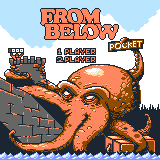
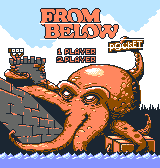
* Turned on screen-squish across the whole game again. * Updated titlescreen to account for this in lettering. * DMG and CGB tiles are now slightly different causing tile indexes to be different; fixed that. * Adjusted cursor to account for missing rows.

diff --git a/gb/src/StateFromBelow.c b/gb/src/StateFromBelow.c
@@ -503,7 +503,7 @@ void vbl_delay(UINT8 frames)
 uint8_t counter = 0; 
 void my_interrupt() NONBANKED {
 
-	if (state == STATE_GAME || state == STATE_OVER || state == STATE_PAUSE)
+	//if (state == STATE_GAME || state == STATE_OVER || state == STATE_PAUSE)
 	{
 		while (STAT_REG & STATF_BUSY);
 		SCY_REG++;
@@ -1001,14 +1001,26 @@ void UPDATE()
 				if (pad_all & PAD_ALL_BUTTONS)
 				{
 					sub_state = 1;
+
+					UINT8 p1 = '\x35';
+					UINT8 p2 = '\x44';
+					UINT8 player = 0x36;
+
+					if (_cpu != CGB_TYPE)	
+					{
+						p1 = '\x34';
+						p2 = '\x43';
+						player = 0x35;
+					}
+
 					// Show the player options
-					UPDATE_TILE_BY_VALUE(7,6, '\x34', 0x10);
-					UPDATE_TILE_BY_VALUE(7,7, '\x43', 0x10);
+					UPDATE_TILE_BY_VALUE(7,6, p1, 0x10);
+					UPDATE_TILE_BY_VALUE(7,7, p2, 0x10);
 
 					for (local_start_x = 0; local_start_x < 4; ++local_start_x)
 					{
-						UPDATE_TILE_BY_VALUE(8 + local_start_x,6, 0x35 + local_start_x, 0x10);
-						UPDATE_TILE_BY_VALUE(8 + local_start_x,7, 0x35 + local_start_x, 0x10);
+						UPDATE_TILE_BY_VALUE(8 + local_start_x,6, player + local_start_x, 0x10);
+						UPDATE_TILE_BY_VALUE(8 + local_start_x,7, player + local_start_x, 0x10);
 					}
 				}
 			}
@@ -1031,7 +1043,7 @@ void UPDATE()
 
 				// Cursor
 				sprite_data[1] = ((6) << 3) + SCREEN_START_X - 2 - tenatcle_offsets[(tick_count / 16) % 4];
-				sprite_data[0] = ((6 + cur_option) << 3) + SCREEN_START_Y - 1;
+				sprite_data[0] = ((6 + cur_option) * 7) + SCREEN_START_Y - 1;
 				sprite_data[2] = 16;
 				sprite_data[3] = 1 | (1 << 4) | (1 << 5);
 				memcpy(oam + (next_oam_idx << 2), sprite_data, sizeof(sprite_data));
@@ -1542,14 +1554,14 @@ void UPDATE()
 			}
 
 			sprite_data[1] = (3 << 3) + SCREEN_START_X - 5 + tenatcle_offsets[(tick_count / 16) % 4];
-			sprite_data[0] = (local_start_y << 3) + SCREEN_START_Y;
+			sprite_data[0] = (local_start_y * 7) + SCREEN_START_Y;
 			sprite_data[2] = 16;
 			sprite_data[3] = 1;
 			memcpy(oam + (next_oam_idx << 2), sprite_data, sizeof(sprite_data));
 			next_oam_idx += sizeof(sprite_data) >> 2;
 
 			sprite_data[1] = (4 << 3) + SCREEN_START_X - 2 - tenatcle_offsets[(tick_count / 16) % 4];
-			sprite_data[0] = (local_start_y << 3) + SCREEN_START_Y;
+			sprite_data[0] = (local_start_y * 7) + SCREEN_START_Y;
 			sprite_data[2] = 16;
 			sprite_data[3] = 1 | (1 << 5);
 			memcpy(oam + (next_oam_idx << 2), sprite_data, sizeof(sprite_data));
